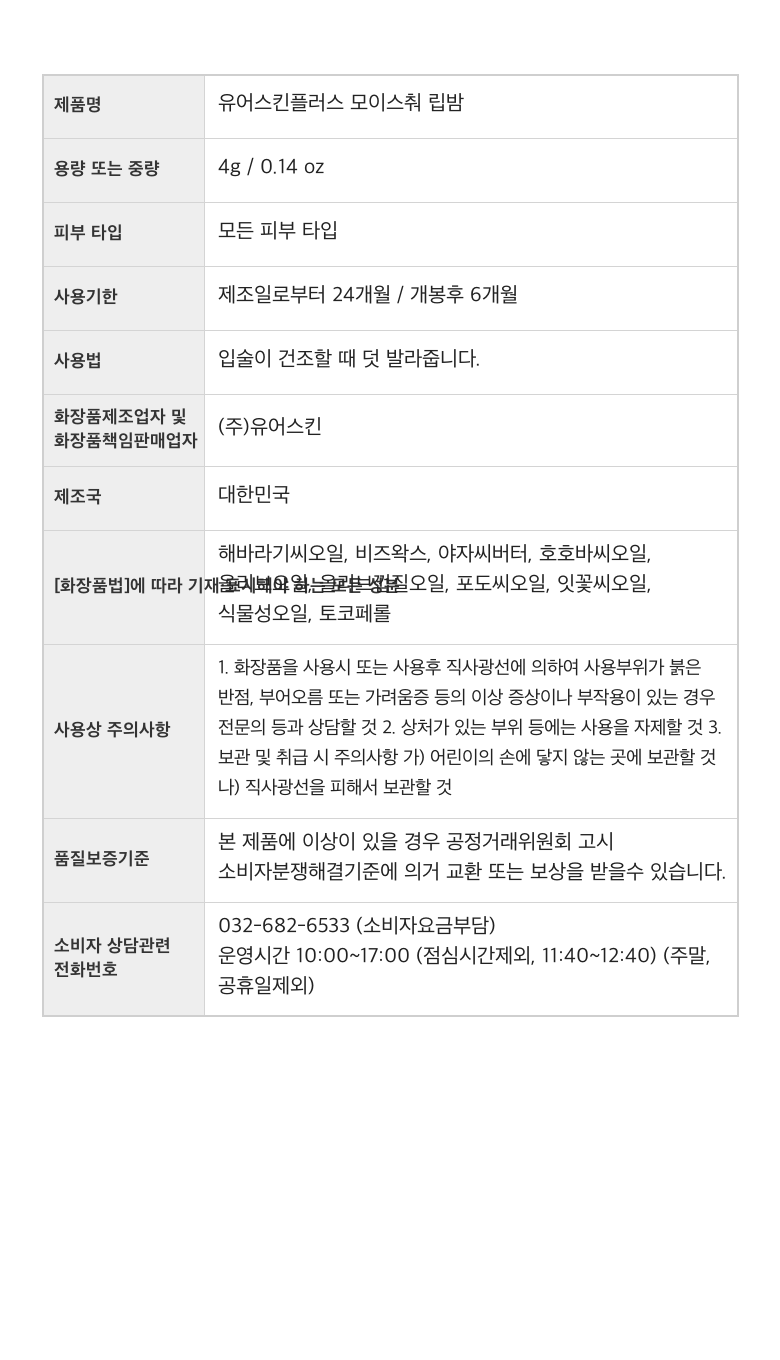
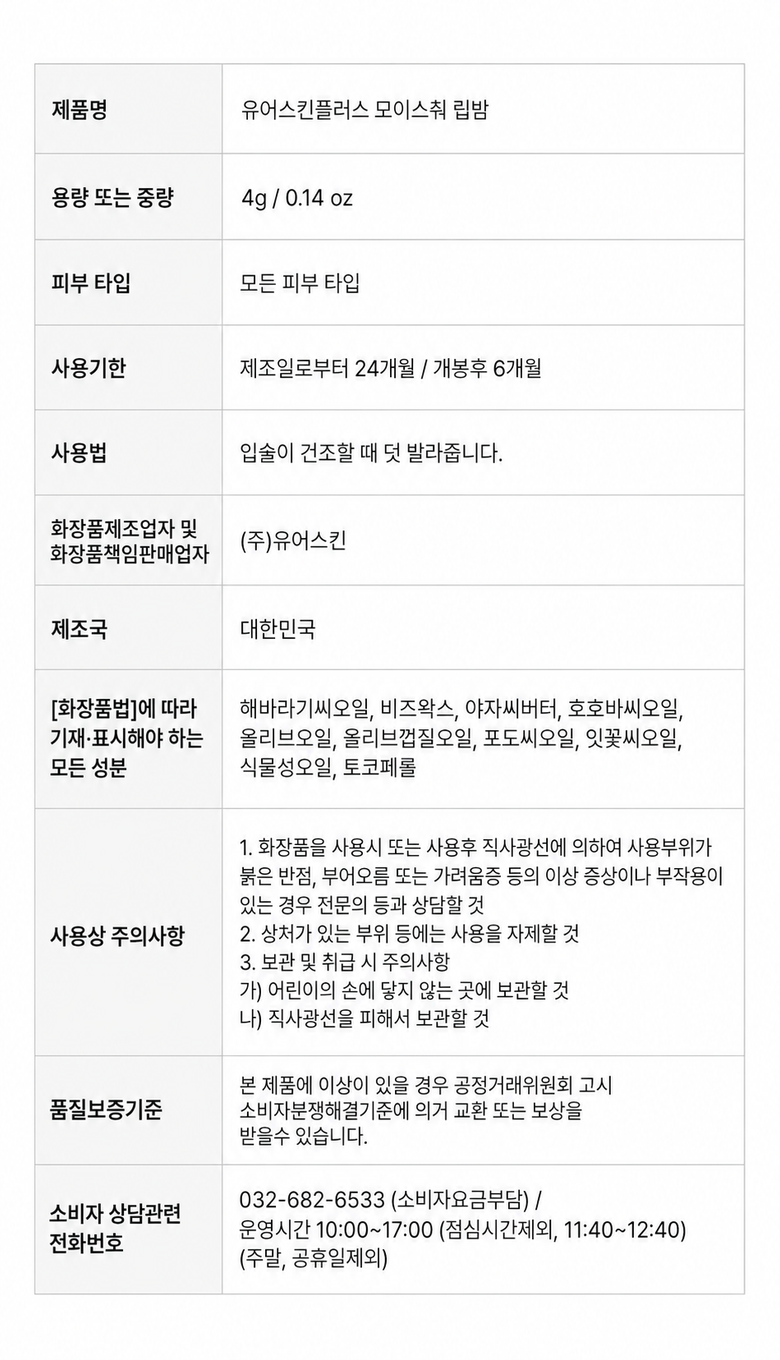
Regenerate moisture lip balm tail via GPT Images

diff --git a/docs/workflows/coupang-detail-renewal-workflow.md b/docs/workflows/coupang-detail-renewal-workflow.md
@@ -330,7 +330,8 @@ Legal/product-info table correction rules:
 
 - If the table has a row label `제품 주요 사항` or `제품 주요 사양` with a value like `모든 피부 타입`, change the label to `피부 타입`.
 - Align legal tables with generous top/bottom breathing room, consistent left-label column width, internal cell padding, and row heights/wrapping that keep long 전성분/주의사항 text away from grid lines.
-- For these small label/alignment fixes, deterministic exact-text rendering is acceptable when Leo did not explicitly request GPT Images provenance; ingredient order and legal text accuracy outrank decorative styling.
+- For Leo's Coupang detail-image production, do **not** locally render or locally overlay the final image just because the correction is small. Regenerate through GPT Images (`https://chatgpt.com/images/`) with the exact requested label/text and adjacent approved cuts as references, then normalize only.
+- Deterministic/local rendering is acceptable only if Leo explicitly approves an accuracy-first local table render for that specific cut. If Leo says `GPT 이미지 스킬`, `니가 만들면 안돼`, or is asking for normal 상세이미지 제작/수정, local rendering must be treated as rejected provenance, not final.
 
 ### 7b. Generate representative/main images after detail images
 
